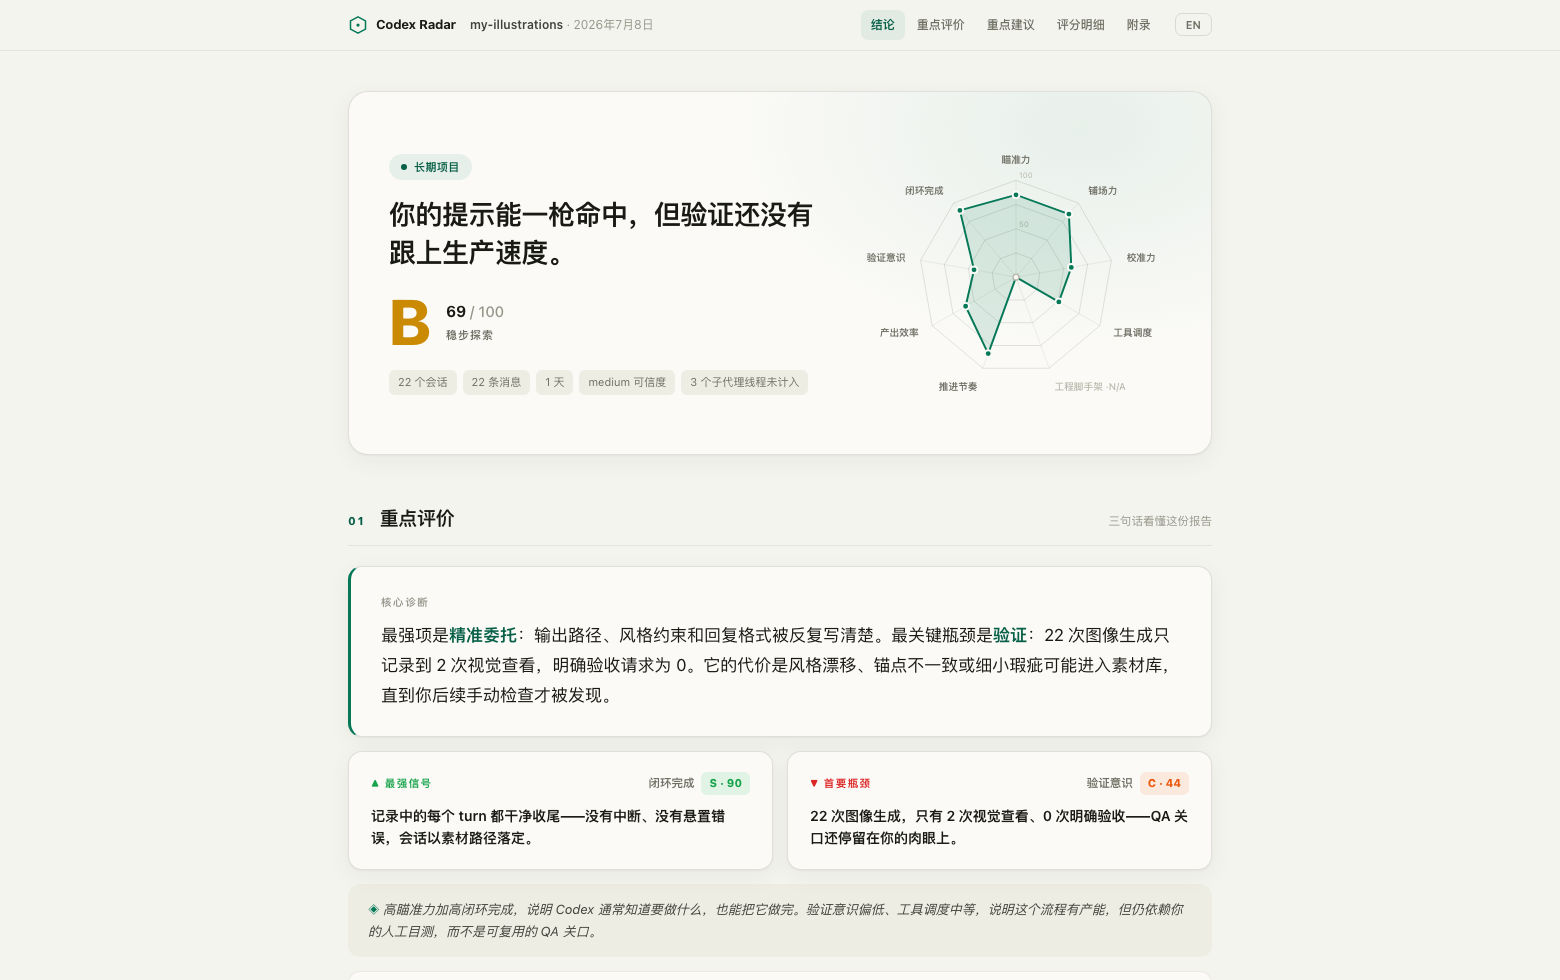
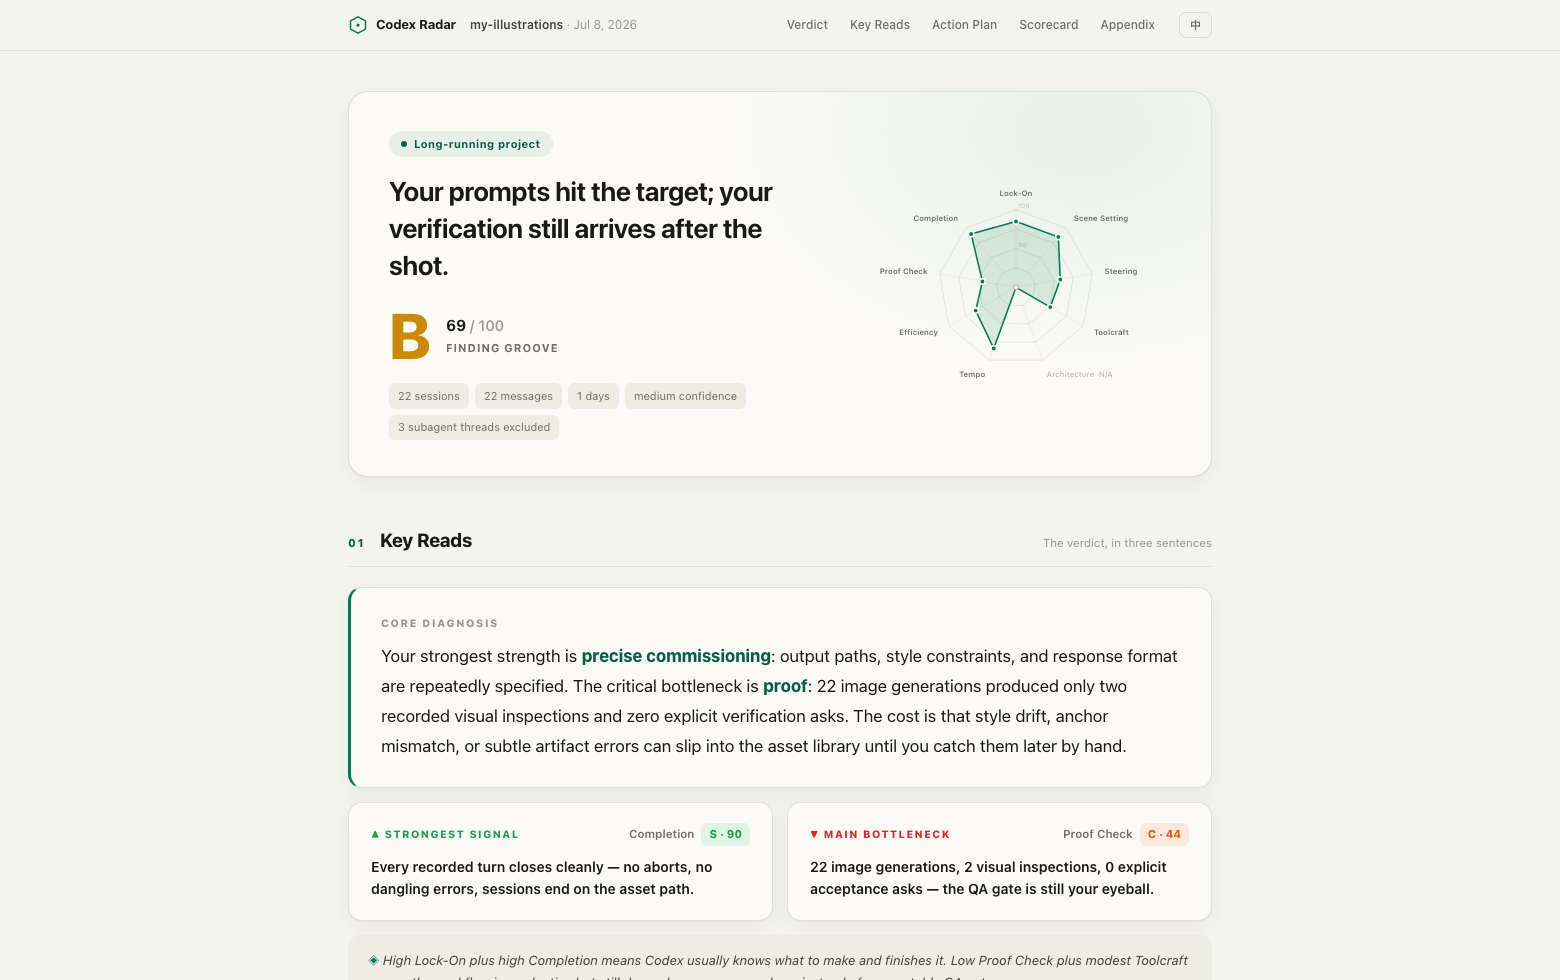
Use English dashboard screenshot; widen radar viewBox so long dimension labels aren't clipped

diff --git a/plugins/codex-radar/viewer/template.html b/plugins/codex-radar/viewer/template.html
@@ -796,7 +796,7 @@
     const dims = report.dimensions || [];
     const n = dims.length;
     if (!n) { document.getElementById('heroRadar').innerHTML = ''; return; }
-    const W = 320, H = 300, cx = W / 2, cy = H / 2 + 4, R = 100;
+    const W = 400, H = 300, cx = W / 2, cy = H / 2 + 4, R = 100;
     const ang = i => -Math.PI / 2 + i * 2 * Math.PI / n;
     const px = (i, r) => cx + r * Math.cos(ang(i));
     const py = (i, r) => cy + r * Math.sin(ang(i));
